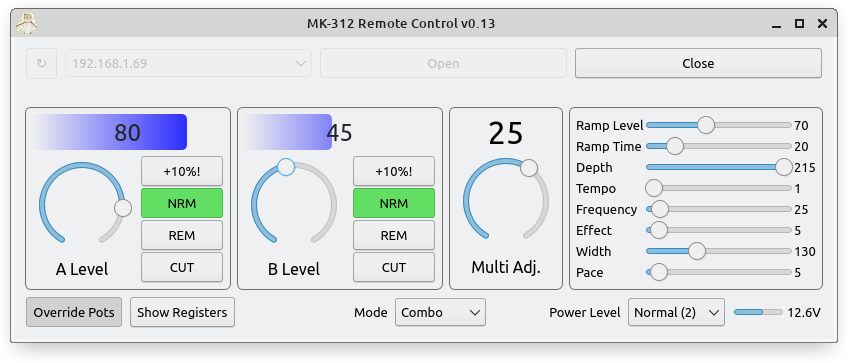
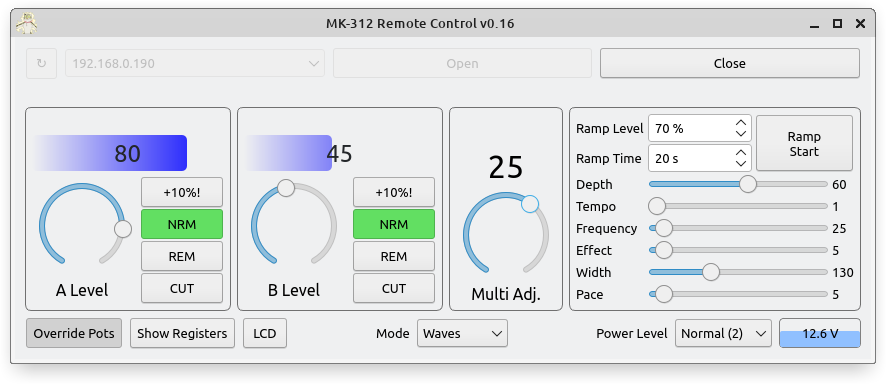
Start ramp button added, and changes in AdvancedParameters() class (v0.16)

diff --git a/mk312-gui.py b/mk312-gui.py
@@ -2,7 +2,7 @@
 # -*- coding: utf-8 -*-
 # https://github.com/clxjaguar/mk312-gui
 
-VERSION = '0.15'
+VERSION = '0.16'
 import sys, re, time, socket, serial, serial.tools.list_ports, textwrap
 
 try:
@@ -51,7 +51,9 @@ class BoxWorker(QObject):
 	             'user_modes_loaded': {'addr': 0x41f3, 'offset': 0x87}, 'adc_disable': {'addr': 0x400f, 'bit': 0},
 	             'box_version':0x00fc, 'v1':0x00fd, 'v2':0x00fe, 'v3':0x00ff, 'com_cipher_key':0x4213,
 	             'current_mode': 0x407b, 'channel_a_split_mode': 0x41f5, 'channel_b_split_mode': 0x41f6, 'current_random_mode': 0x4074,
-	             'menu_state': 0x406d}
+	             'menu_state': 0x406d, 'execute_command': 0x4070, 'execute_command2': 0x4071}
+
+	execute_commands = {'start_ramp': 0x21}
 
 	boxNetworkAddressAutoDetected = pyqtSignal(str)
 	commUpdated = pyqtSignal()
@@ -95,6 +97,9 @@ class BoxWorker(QObject):
 			self.statusUpdated.emit(2, "Register '%s' unknown (bug?)" % (name))
 		else:
 			self.registersToWrite[name] = value
+
+	def rampStart(self):
+		self.setValue('execute_command', self.execute_commands['start_ramp'])
 
 	def discover(self, timeout=0.5):
 		UDP_DISCOVERY_PORT = 8842
@@ -1043,12 +1048,12 @@ class GUI(QWidget):
 				QGroupBox.__init__(self)
 				channelsLayout.addWidget(self)
 				layout = QGridLayout(self)
-				layout.setSpacing(0)
-				self.sliders = {}
-				# ~ self.setSizeHint()
+				layout.setSpacing(2)
+				self.setStyleSheet("QSpinBox { margin-top: -1px; margin-bottom: -1px; margin-right: 0px; }")
+				self.controlWidgets = {}
 
 				for i, p in enumerate([
-				                       ("Ramp Level", 'advparam_ramp_level', 50, 100, 70, "Starting level for the Ramp function. The factory default is 70% and the range is 50% to 100%. Setting it at 50% means the output intensity will double from the beginning to the end of the ramp. This is more of an increase than many people are comfortable with. Setting it to 100% effectively disables the Ramp function."),
+				                       ("Ramp Level", 'advparam_ramp_level', 0, 100, 70, "Starting level for the Ramp function. The factory default is 70% and the range is 50% to 100%. Setting it at 50% means the output intensity will double from the beginning to the end of the ramp. This is more of an increase than many people are comfortable with. Setting it to 100% effectively disables the Ramp function."),
 				                       ("Ramp Time", 'advparam_ramp_time', 1, 120, 20, "Time in seconds between each ramp increment. The factory setting is 20 seconds. The range is 1 to 120 seconds per increment. With the factory settings, there are 30 steps between 70% and 100%. At 20 seconds per step, that’s 600 seconds total time (10 minutes). If you set RampTime to 120 seconds, it would be 3600 seconds (1 hour)."),
 				                       ("Depth", 'advparam_depth', 10, 100, 60, "This adjusts the modulation depth of some of the modes. For example, on Stroke, it alters the range of the stroking effect. The factory setting is 50 and the range is 10 to 100."),
 				                       ("Tempo", 'advparam_tempo', 1, 100, 1, "This adjusts the intensity modulation speed and other rate parameters of some modes. The factory setting is 10 and the range is 1 to 100."),
@@ -1059,40 +1064,71 @@ class GUI(QWidget):
 				                      ]):
 
 					labelName, paramName, mini, maxi, default, tipText = p
-					slider = QSlider(Qt.Horizontal)
-					slider.paramName = paramName
+
 					if paramName == 'advparam_ramp_level':
-						slider.granularity = 10; slider.paramOffset = 155
+						controlWidget = QSpinBox()
+						controlWidget.paramOffset = 155
+						controlWidget.setSingleStep(10)
+						controlWidget.setSuffix(" %")
+					elif paramName == 'advparam_ramp_time':
+						controlWidget = QSpinBox()
+						controlWidget.paramOffset = 0
+						controlWidget.setSuffix(" s")
 					else:
-						slider.granularity = 1;  slider.paramOffset = 0
+						controlWidget = QSlider(Qt.Horizontal)
+						controlWidget.paramOffset = 0
+						if paramName == 'advparam_depth':
+							controlWidget.paramOffset = 155
+							controlWidget.setSingleStep(10)
+					controlWidget.paramName = paramName
 
-					slider.setMinimumWidth(150)
-					slider.setRange(int(mini/slider.granularity), int(maxi/slider.granularity))
-					slider.setValue(int(default/slider.granularity))
-					slider.valueChanged.connect(self.valueChanged)
-					slider.valueLabel = QLabel(str(slider.value()*slider.granularity))
-					slider.setToolTip("\n".join(textwrap.wrap(tipText)))
+					controlWidget.setMinimumWidth(50)
+					controlWidget.height = controlWidget.sizeHint().height()
+					controlWidget.sizeHint = lambda: QSize(150, controlWidget.height)
+					controlWidget.setRange(mini, maxi)
+					controlWidget.setValue(default)
+					controlWidget.valueChanged.connect(self.valueChanged)
+					controlWidget.valueLabel = QLabel(str(controlWidget.value()))
+					controlWidget.setToolTip("\n".join(textwrap.wrap(tipText)))
 					l = QLabel(labelName)
-					l.setToolTip(slider.toolTip())
+					l.setToolTip(controlWidget.toolTip())
 					layout.addWidget(l, i, 0)
-					layout.addWidget(slider, i, 2)
-					layout.addWidget(slider.valueLabel, i, 3)
-					self.sliders[paramName] = slider
+					if type(controlWidget) is QSpinBox:
+						layout.addWidget(controlWidget, i, 2)
+						controlWidget.adjustSize()
+					else:
+						layout.addWidget(controlWidget, i, 2, 1, 2)
+						layout.addWidget(controlWidget.valueLabel, i, 4)
+					self.controlWidgets[paramName] = controlWidget
 
-			def valueChanged(self, i):
-				# ~ print(self.sender().paramName, i, self.sender().valueLabel)
-				i*=self.sender().granularity
-				self.sender().valueLabel.setText("%d" % i)
-				boxWorker.setValue(self.sender().paramName, i+self.sender().paramOffset)
+				self.rampStartBtn = QToolButton()
+				self.rampStartBtn.setText("Ramp\nStart")
+				self.rampStartBtn.setSizePolicy(QSizePolicy.Expanding, QSizePolicy.Expanding)
+				self.rampStartBtn.clicked.connect(lambda: boxWorker.rampStart())
+				layout.addWidget(self.rampStartBtn, 0, 3, 2, 2)
+
+				layout.setColumnStretch(1, 1)
+				layout.setColumnStretch(2, 100)
+				layout.setColumnStretch(3, 70)
+				layout.setColumnStretch(4, 1)
+
+			def valueChanged(self, value):
+				if self.sender().paramName == 'advparam_ramp_level':
+					self.rampStartBtn.setEnabled(True if value < 100 else False)
+				self.sender().valueLabel.setFixedWidth(self.sender().valueLabel.width())
+				self.sender().valueLabel.setText("%d" % value)
+				boxWorker.setValue(self.sender().paramName, value+self.sender().paramOffset)
 
 			def paramsUpdate(self):
-				for paramName in self.sliders:
-					slider = self.sliders[paramName]
-					value = boxWorker.getValue(paramName) - slider.paramOffset
-					slider.blockSignals(True)
-					slider.valueLabel.setText("%d" % value)
-					slider.setValue(int(value / slider.granularity))
-					slider.blockSignals(False)
+				for paramName in self.controlWidgets:
+					controlWidget = self.controlWidgets[paramName]
+					value = boxWorker.getValue(paramName) - controlWidget.paramOffset
+					controlWidget.blockSignals(True)
+					controlWidget.valueLabel.setText("%d" % value)
+					controlWidget.setValue(value)
+					controlWidget.blockSignals(False)
+					if paramName == 'advparam_ramp_level':
+						self.rampStartBtn.setEnabled(True if value < 100 else False)
 
 		self.channels = (ChannelWidget("A Level", 'channel_a_level'), ChannelWidget("B Level", 'channel_b_level'))
 		self.multiAdjust = MultiAdjustWidget('multiadjust_scaled')
